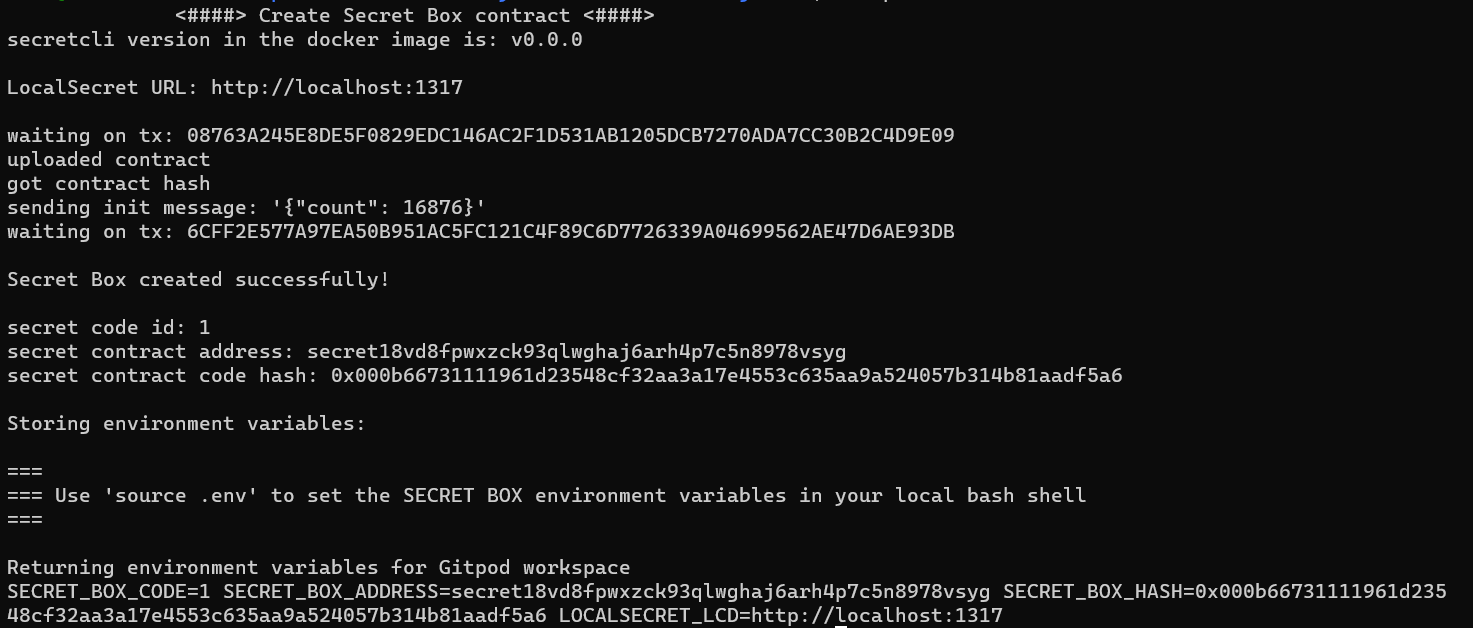
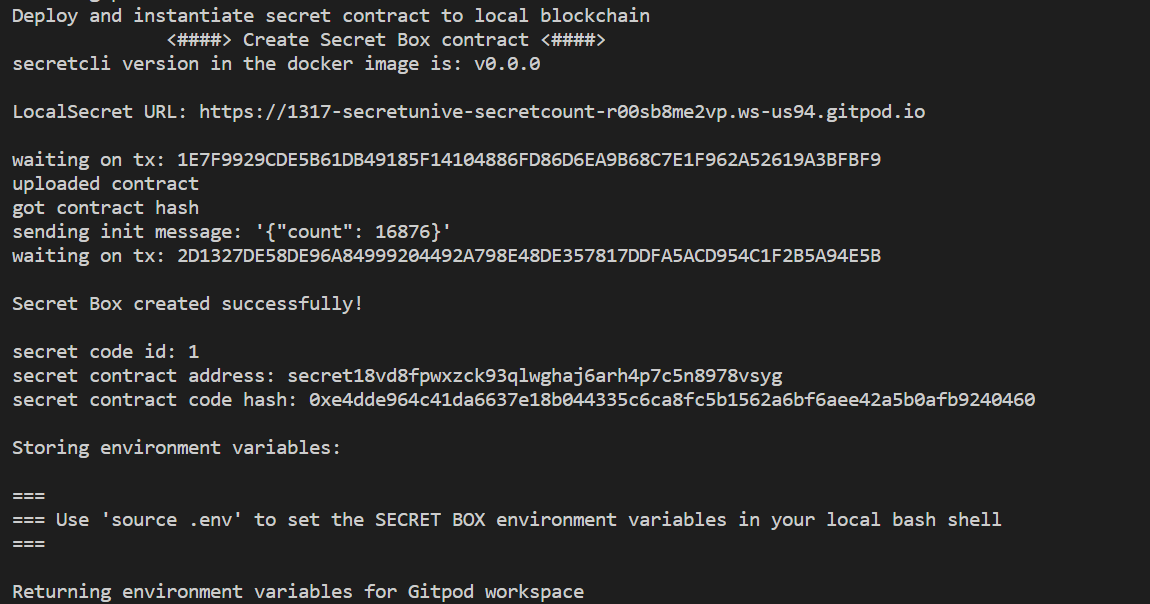
update deploy image

Changed region(s): [[0.0, 0.0, 0.913, 0.6854], [0.0, 0.8344, 1.0, 1.0], [0.0, 0.7152, 0.7304, 0.8344]]

diff --git a/app/tutorial/guide.md b/app/tutorial/guide.md
@@ -141,7 +141,7 @@ reset { "count": 56 } # Or any i32 value
 
 In the `Secret Box Workspace` terminal, you should see the output of the tasks that store and create your contract.
 ###
-![](https://i.imgur.com/BxAJ6an.png)
+![](https://i.imgur.com/bavMGSq.png)
 
 
 > If you've done any object-oriented programming, the idea of instantiating an object from a class definition will be familiar to you.
